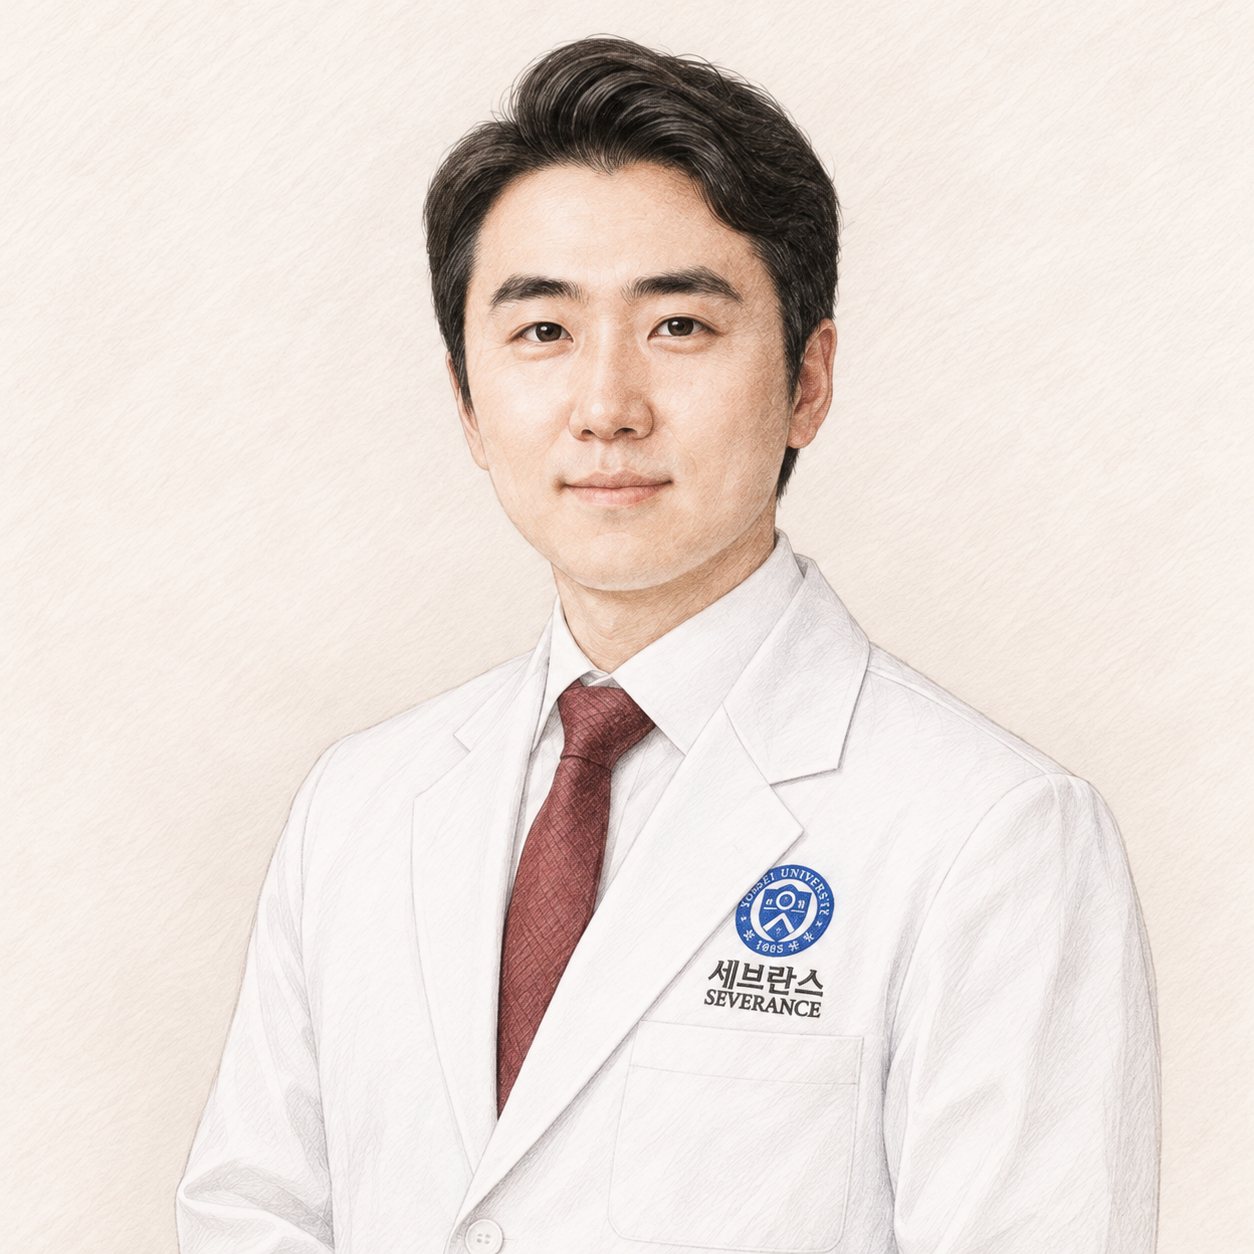
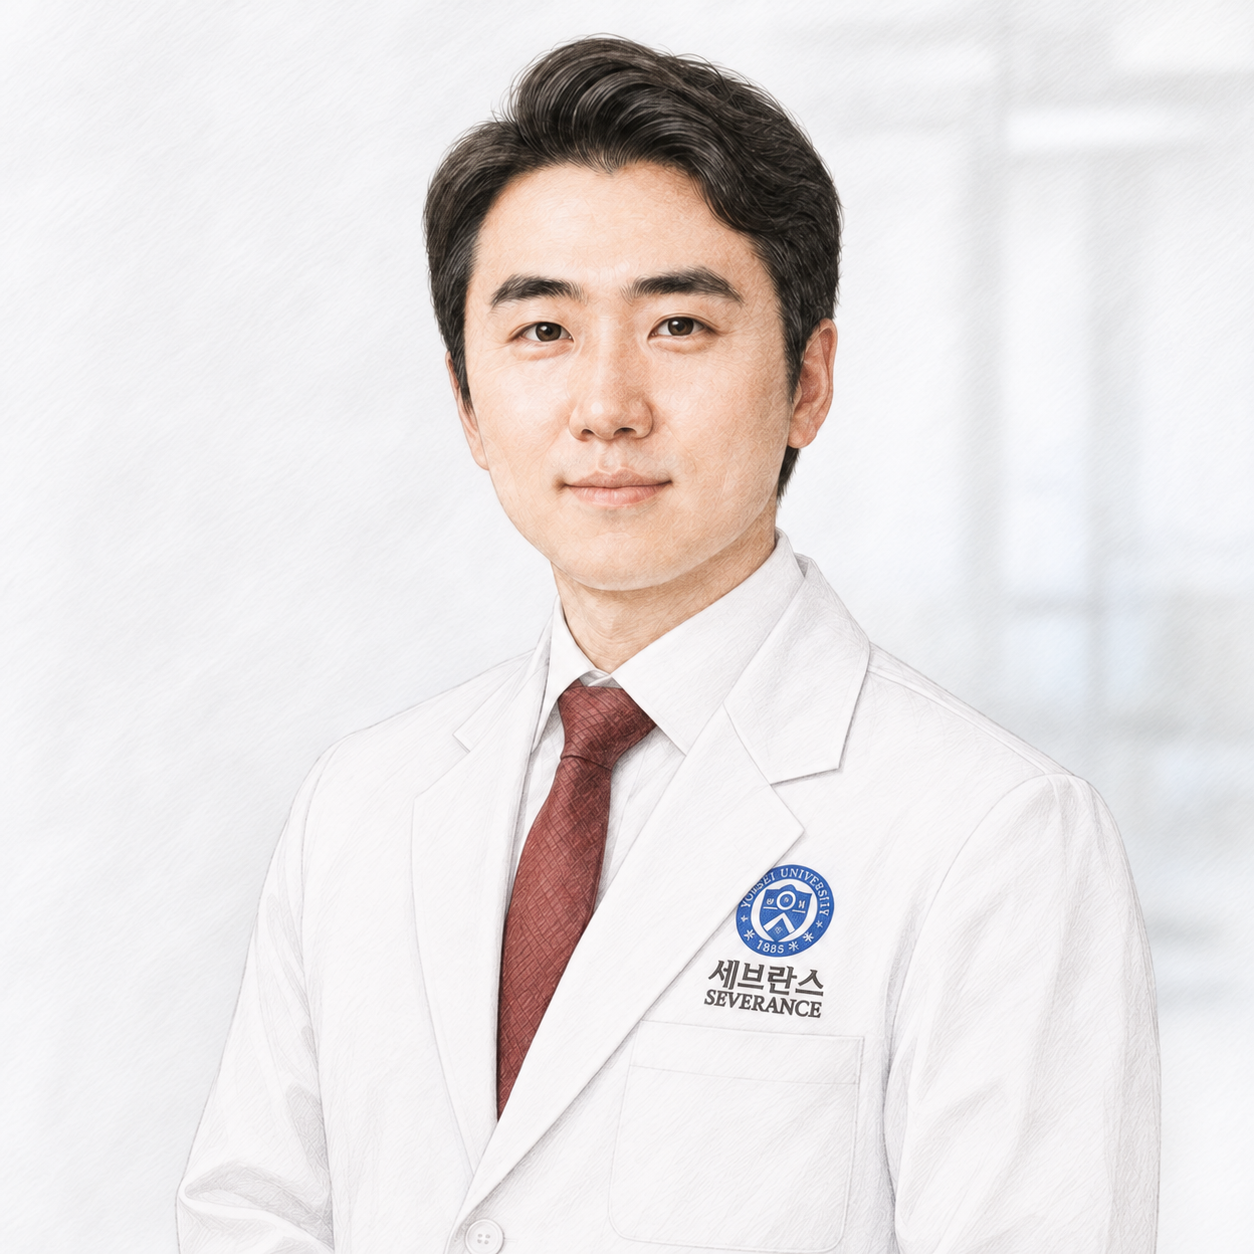
content: yjj-prof 배경 통일

diff --git a/src/components/sections/Leadership.tsx b/src/components/sections/Leadership.tsx
@@ -17,9 +17,9 @@ export default function Leadership() {
                 src={leader.image}
                 alt={`${leader.name} ${leader.role}`}
                 fill
-                sizes="(min-width: 1152px) 960px, (min-width: 768px) 85vw, 205vw"
+                sizes="(min-width: 1152px) 360px, (min-width: 768px) 31vw, 100vw"
                 quality={90}
-                className="object-cover object-[65%_center]"
+                className="object-cover object-top"
               />
             </div>
             <div className="p-6">

diff --git a/next.config.ts b/next.config.ts
@@ -5,7 +5,6 @@ const nextConfig: NextConfig = {
   cacheComponents: true,
   partialPrefetching: true,
   images: {
-    // 75는 기본값, 90은 원본 해상도에 여유가 없는 임원진 사진용
     qualities: [75, 90],
   },
   turbopack: {
